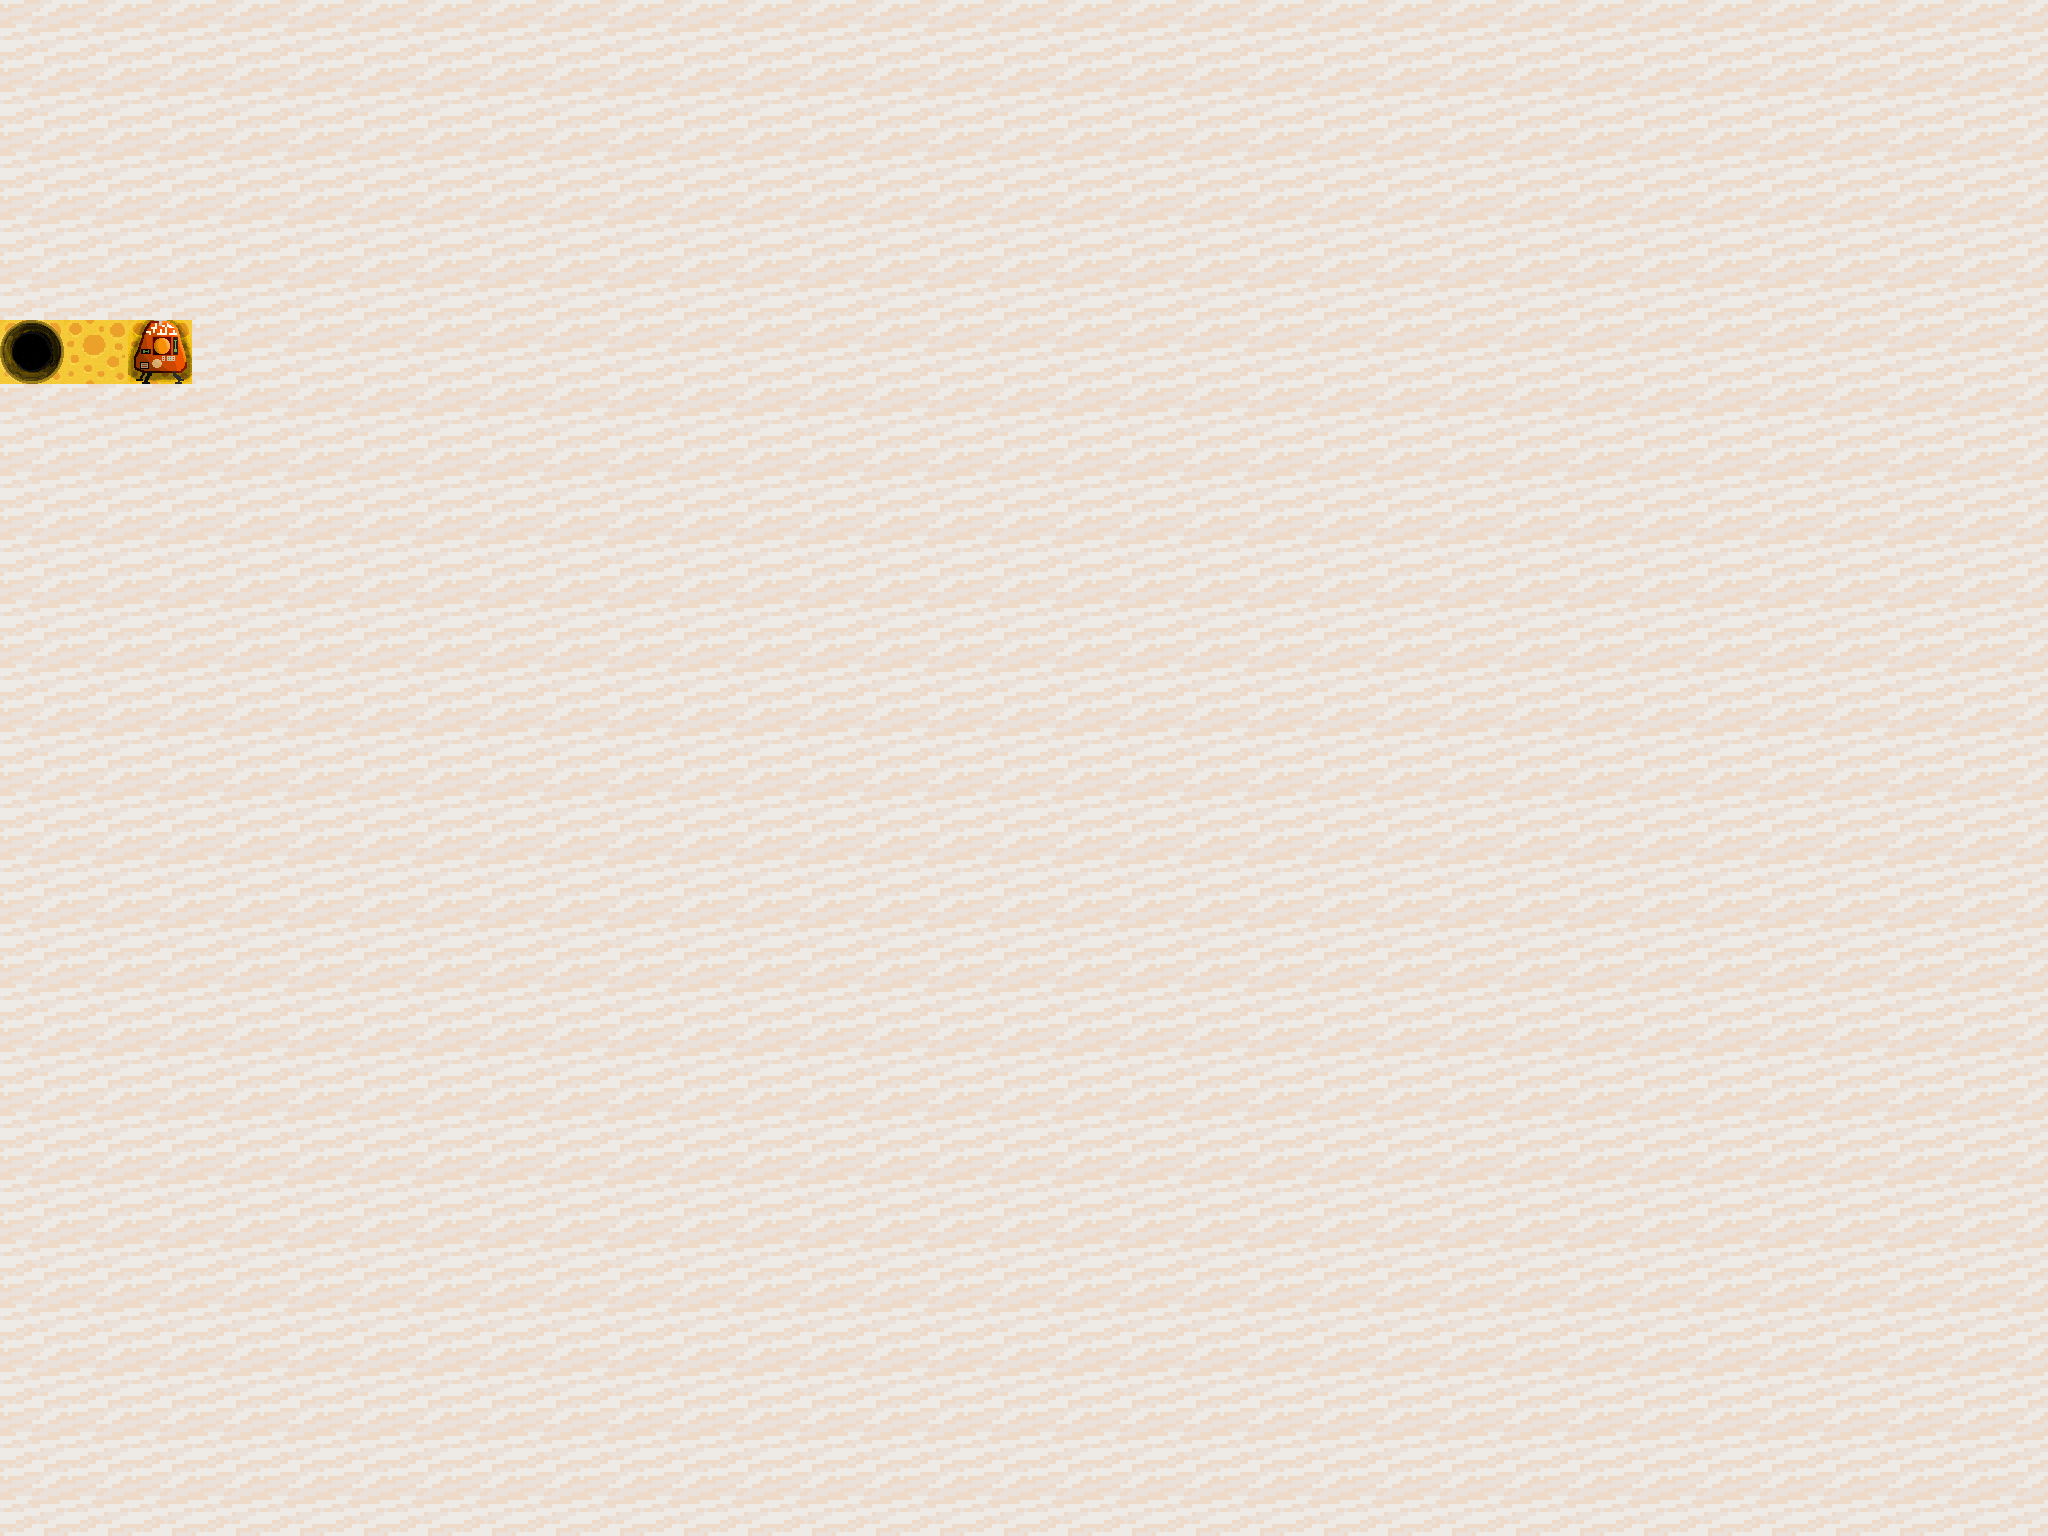
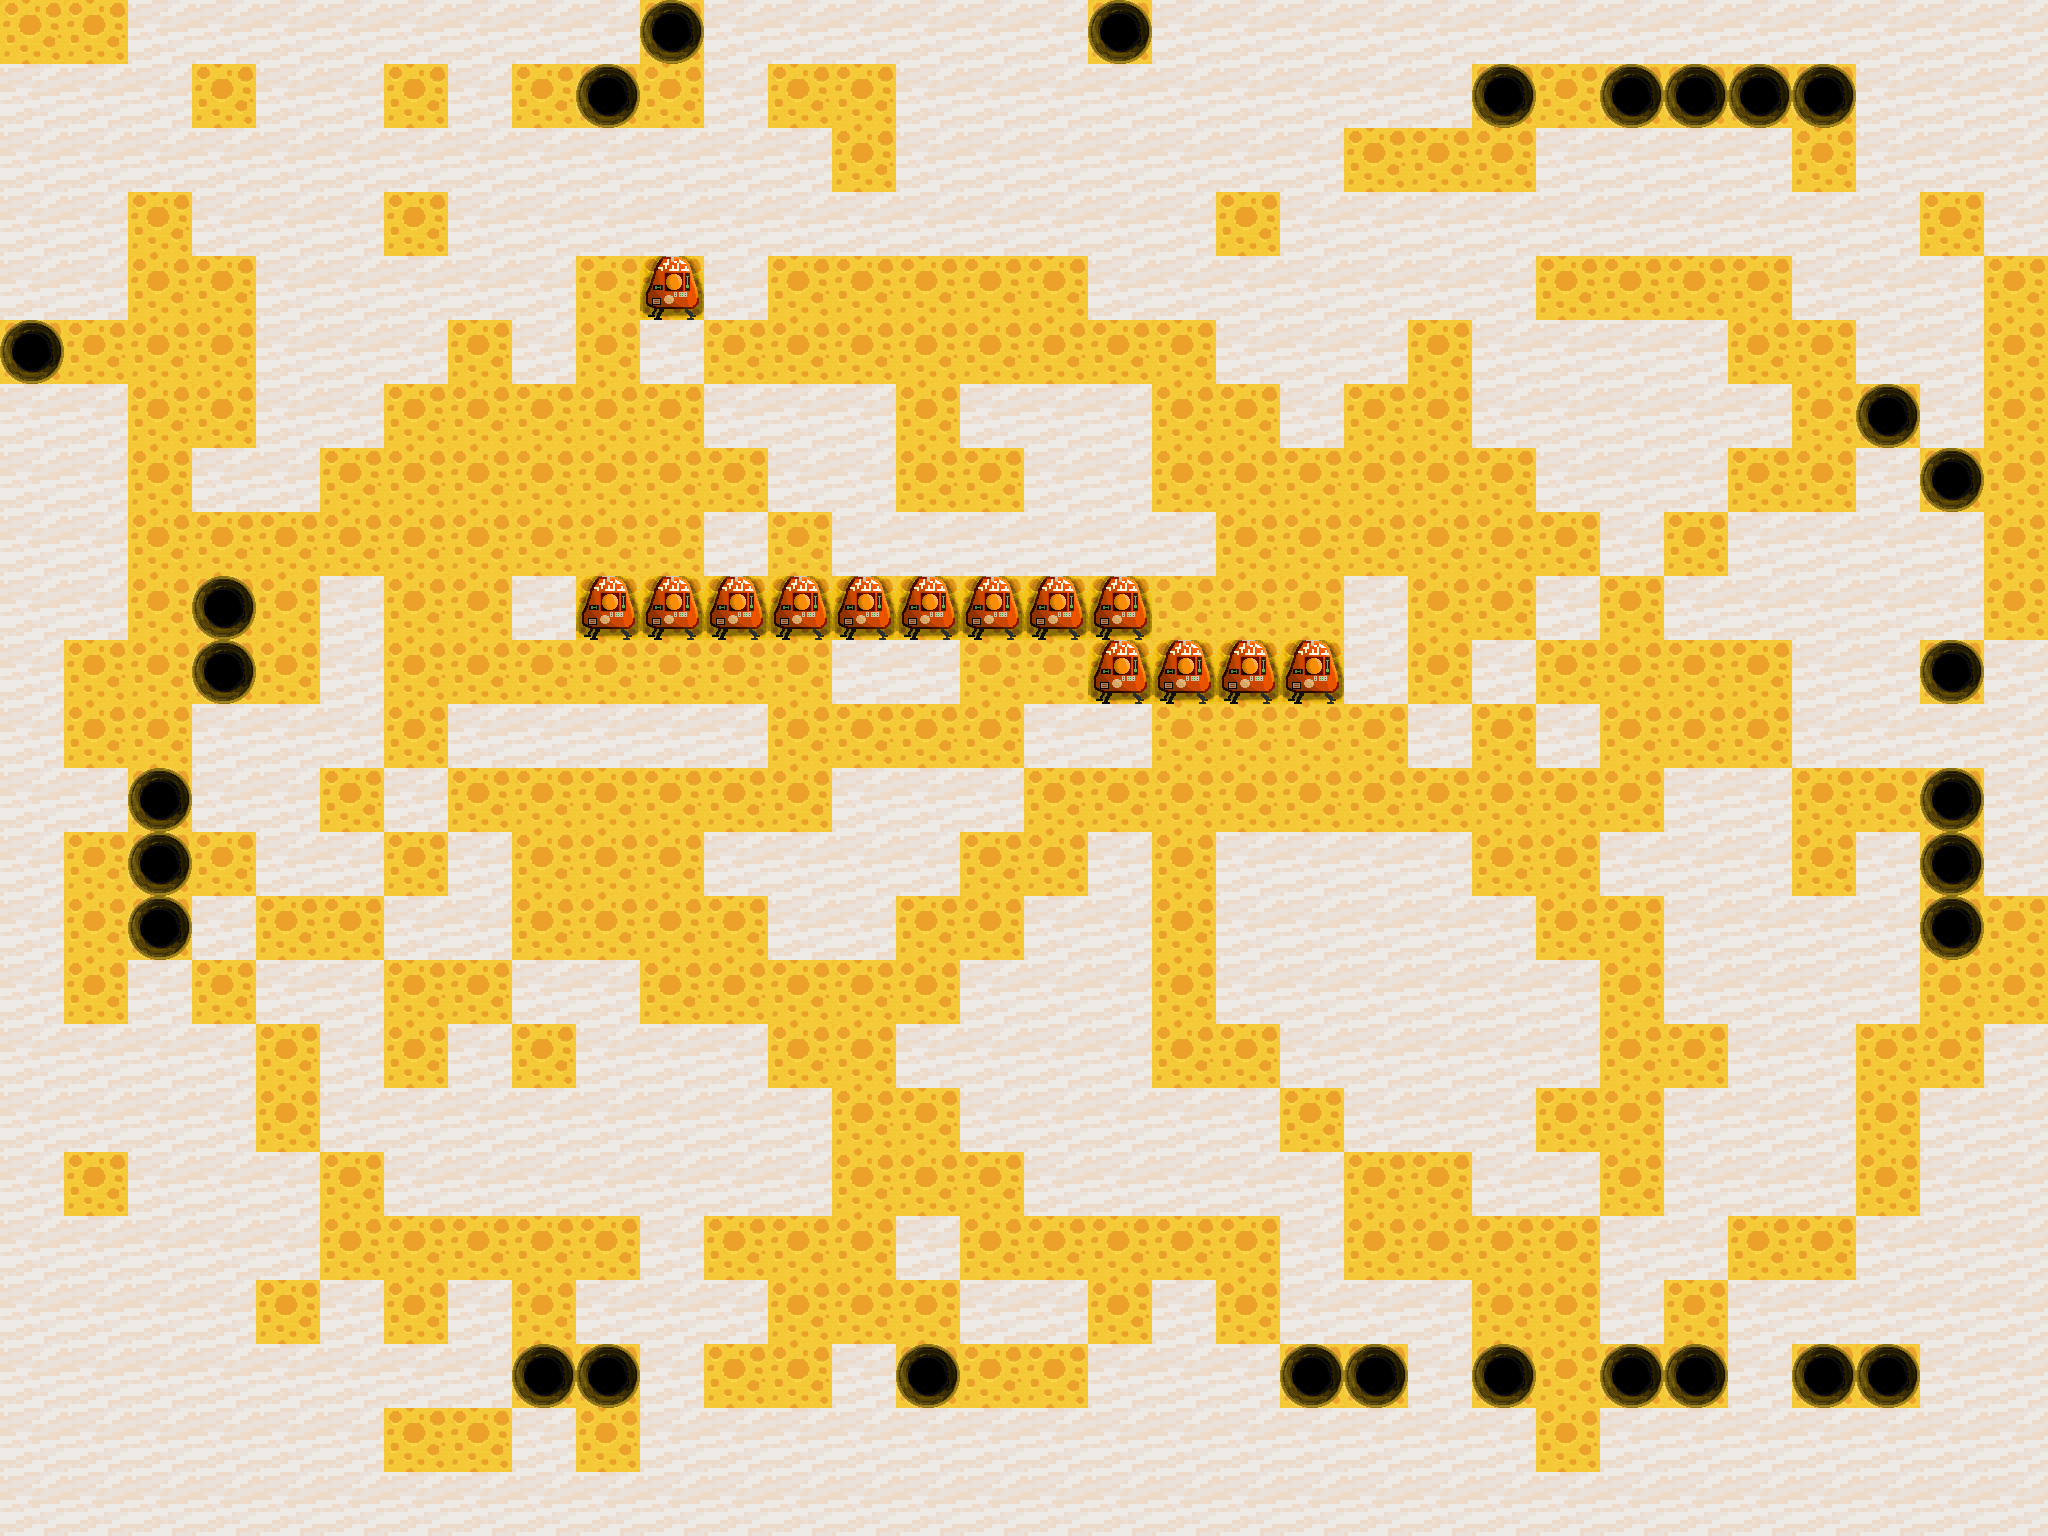
Improve map editor painting workflow

diff --git a/map-editor/src/components/SingleTile.vue b/map-editor/src/components/SingleTile.vue
@@ -1,36 +1,36 @@
 <template>
-    <div @click="tap" @mouseover="mouseOver" class="tile" :class="{
-        'top-wall': store.getCell(props.i, props.j).walls[0],
-        'right-wall': store.getCell(props.i, props.j).walls[1],
-        'bottom-wall': store.getCell(props.i, props.j).walls[2],
-        'left-wall': store.getCell(props.i, props.j).walls[3],
-    }" </div>
+    <div
+        class="tile"
+        :class="{
+            'top-wall': store.getCell(props.i, props.j).walls[0],
+            'right-wall': store.getCell(props.i, props.j).walls[1],
+            'bottom-wall': store.getCell(props.i, props.j).walls[2],
+            'left-wall': store.getCell(props.i, props.j).walls[3],
+        }"
+        @pointerdown.prevent="startBrush"
+        @pointerenter="continueBrush"
+        @dragstart.prevent
+    ></div>
 </template>
 
 <script setup>
+import { computed } from 'vue';
 import { useAppStore } from '@/stores/app';
-import { ref } from 'vue';
 
 const store = useAppStore();
 const props = defineProps(['i', 'j']);
-const color = ref(store.cellTypes[store.getCell(props.i, props.j).type].color);
-const borderColor = ref(store.isHighlighted(props.i, props.j) ? "#00ff00" : "#000000");
-const borderWidth = ref(store.isHighlighted(props.i, props.j) ? "2px" : "0.5px");
 
-watch(() => store.cellTypes[store.getCell(props.i, props.j).type].color, (newValue, _) => {
-    color.value = newValue;
-});
+const color = computed(() => store.cellTypes[store.getCell(props.i, props.j).type].color);
+const borderColor = computed(() => store.isHighlighted(props.i, props.j) ? '#00ff00' : '#000000');
+const borderWidth = computed(() => store.isHighlighted(props.i, props.j) ? '2px' : '0.5px');
 
-watch(() => store.isHighlighted(props.i, props.j), (newValue, _) => {
-    borderColor.value = newValue ? "#00ff00" : "#000000";
-    borderWidth.value = newValue ? "2px" : "0.5px";
-});
+const startBrush = (event) => {
+    if (event.button !== 0) return;
+    store.startBrush(props.i, props.j);
+};
 
-const tap = () => {
-    if (store.selectedCellType != -1)
-        store.paintCell(props.i, props.j);
-    if (store.selectedWallType != -1)
-        store.addWall(props.i, props.j);
+const continueBrush = () => {
+    store.continueBrush(props.i, props.j);
 };
 
 const brighten = (color, amount) => {
@@ -54,6 +54,8 @@ const brighten = (color, amount) => {
     border: v-bind(borderWidth) solid v-bind(borderColor);
     aspect-ratio: 1;
     width: 100%;
+    user-select: none;
+    touch-action: none;
 }
 
 .tile:hover {

diff --git a/map-editor/src/stores/app.js b/map-editor/src/stores/app.js
@@ -1,4 +1,4 @@
-// Utilities
+// Utilities
 import { defineStore } from 'pinia';
 
 const AUTOSAVE_KEY = 'gnome-field-generator.map-editor.autosave.v1';
@@ -62,6 +62,8 @@ export const useAppStore = defineStore('app', {
     syncToGameStatus: '',
     syncToGameError: '',
     syncToGameUpdatedAt: null,
+    brushActive: false,
+    lastBrushedCell: null,
   }),
   actions: {
     init() {
@@ -74,6 +76,16 @@ export const useAppStore = defineStore('app', {
       this.height = height;
       this.cells = createCells(width, height);
       this.portalPairs = [];
+      this.persistAutosave();
+    },
+    clearField() {
+      this.stopBrush();
+      this.cells = createCells(this.width, this.height);
+      this.portalPairs = [];
+      this.highlighted = [];
+      this.syncToGameStatus = '';
+      this.syncToGameError = '';
+      this.syncToGameUpdatedAt = null;
       this.persistAutosave();
     },
     getIndex(i, j) {
@@ -96,6 +108,27 @@ export const useAppStore = defineStore('app', {
       }
       this.cells[index].walls[this.selectedWallType] = true;
       this.persistAutosave();
+    },
+    applySelectedTool(i, j) {
+      const key = i + '-' + j;
+      if (this.lastBrushedCell === key) return;
+
+      this.lastBrushedCell = key;
+      if (this.selectedCellType != -1) this.paintCell(i, j);
+      if (this.selectedWallType != -1) this.addWall(i, j);
+    },
+    startBrush(i, j) {
+      this.brushActive = true;
+      this.lastBrushedCell = null;
+      this.applySelectedTool(i, j);
+    },
+    continueBrush(i, j) {
+      if (!this.brushActive) return;
+      this.applySelectedTool(i, j);
+    },
+    stopBrush() {
+      this.brushActive = false;
+      this.lastBrushedCell = null;
     },
     getPortals(exists = false) {
       const pType = exists ? 9 : 7;
@@ -262,5 +295,3 @@ export const useAppStore = defineStore('app', {
     },
   },
 });
-
-

diff --git a/map-editor/src/components/TileGrid.vue b/map-editor/src/components/TileGrid.vue
@@ -1,5 +1,5 @@
 <template>
-    <div class="tile-grid">
+    <div class="tile-grid" @pointerleave="store.stopBrush()">
         <div v-for="i in store.width * store.height" :key="i">
             <SingleTile :i="Math.floor((i - 1) / store.width)" :j="(i - 1) % store.width" />
         </div>
@@ -7,9 +7,24 @@
 </template>
 
 <script setup>
+import { onBeforeUnmount, onMounted } from 'vue';
 import { useAppStore } from '@/stores/app';
 
 const store = useAppStore();
+
+const stopBrush = () => {
+    store.stopBrush();
+};
+
+onMounted(() => {
+    window.addEventListener('pointerup', stopBrush);
+    window.addEventListener('blur', stopBrush);
+});
+
+onBeforeUnmount(() => {
+    window.removeEventListener('pointerup', stopBrush);
+    window.removeEventListener('blur', stopBrush);
+});
 </script>
 
 <style scoped>
@@ -20,5 +35,6 @@ const store = useAppStore();
     justify-content: center;
     grid-template-columns: repeat(v-bind("store.width"), min(calc(80vw / v-bind("store.width")), calc(80vh / v-bind("store.height"))));
     grid-template-rows: repeat(v-bind("store.height"), min(calc(80vw / v-bind("store.width")), calc(80vh / v-bind("store.height"))));
+    user-select: none;
 }
 </style>

diff --git a/map-editor/src/components/SaveAndLoad.vue b/map-editor/src/components/SaveAndLoad.vue
@@ -1,4 +1,4 @@
-<template>
+<template>
     <v-row>
         <v-col cols="3" align-self="center" align="center">
             <v-btn @click="store.save()" prepend-icon="mdi-download" size="large">save</v-btn>
@@ -16,7 +16,7 @@
             >sync to game</v-btn>
         </v-col>
         <v-col cols="2" align-self="center" align="center">
-            <v-btn @click="clearAutosave" icon="mdi-delete-outline" variant="tonal"></v-btn>
+            <v-btn @click="clearField" icon="mdi-delete-outline" variant="tonal" title="clear field"></v-btn>
         </v-col>
     </v-row>
     <v-row v-if="autosaveStatus || syncStatus" dense>
@@ -41,8 +41,8 @@ const load = ($event) => {
     store.load($event);
 };
 
-const clearAutosave = () => {
-    store.clearAutosave();
+const clearField = () => {
+    store.clearField();
 };
 
 const syncToGame = () => {

diff --git a/map-editor/README.md b/map-editor/README.md
@@ -1,4 +1,4 @@
-# map-editor
+# map-editor
 
 Визуальный редактор `map.json` для `gnome-field`. Это отдельное Vue/Vuetify-приложение внутри репозитория `gnome-field-generator`.
 
@@ -89,6 +89,13 @@ docker compose up --build
 
 Если редактор запущен отдельно без общего compose, кнопка покажет ошибку подключения к sync API.
 
+
+## Рисование протягиванием
+
+Клетки и стены можно ставить не только отдельными кликами. Выберите тип клетки или стены, зажмите левую кнопку мыши на поле и ведите курсор по сетке. Редактор применит выбранный инструмент ко всем клеткам, через которые проходит курсор.
+
+Автосохранение продолжает работать во время такого рисования.
+
 ## Автосохранение
 
 Редактор автоматически сохраняет черновик карты в `localStorage` браузера. Это значит, что карта переживает:
@@ -101,7 +108,7 @@ docker compose up --build
 
 Черновик привязан к конкретному браузеру и домену. Если открыть редактор в другом браузере, другом профиле или на другом компьютере, там будет отдельное хранилище.
 
-В блоке сохранения есть кнопка `clear draft`, которая очищает сохраненный черновик из браузера. Обычная кнопка `save` по-прежнему скачивает полноценный `map.json`.
+В блоке сохранения есть кнопка с иконкой корзины. Она очищает все поле, сбрасывает пары порталов и сразу автосохраняет пустую карту. Обычная кнопка `save` по-прежнему скачивает полноценный `map.json`.
 
 ## Типы клеток
 
@@ -186,5 +193,3 @@ VITE_BASE_PATH=/gnome-field-generator/
 ```
 
 Это оставляет GitHub Pages рабочим, но не мешает нормальному локальному запуску.
-
-